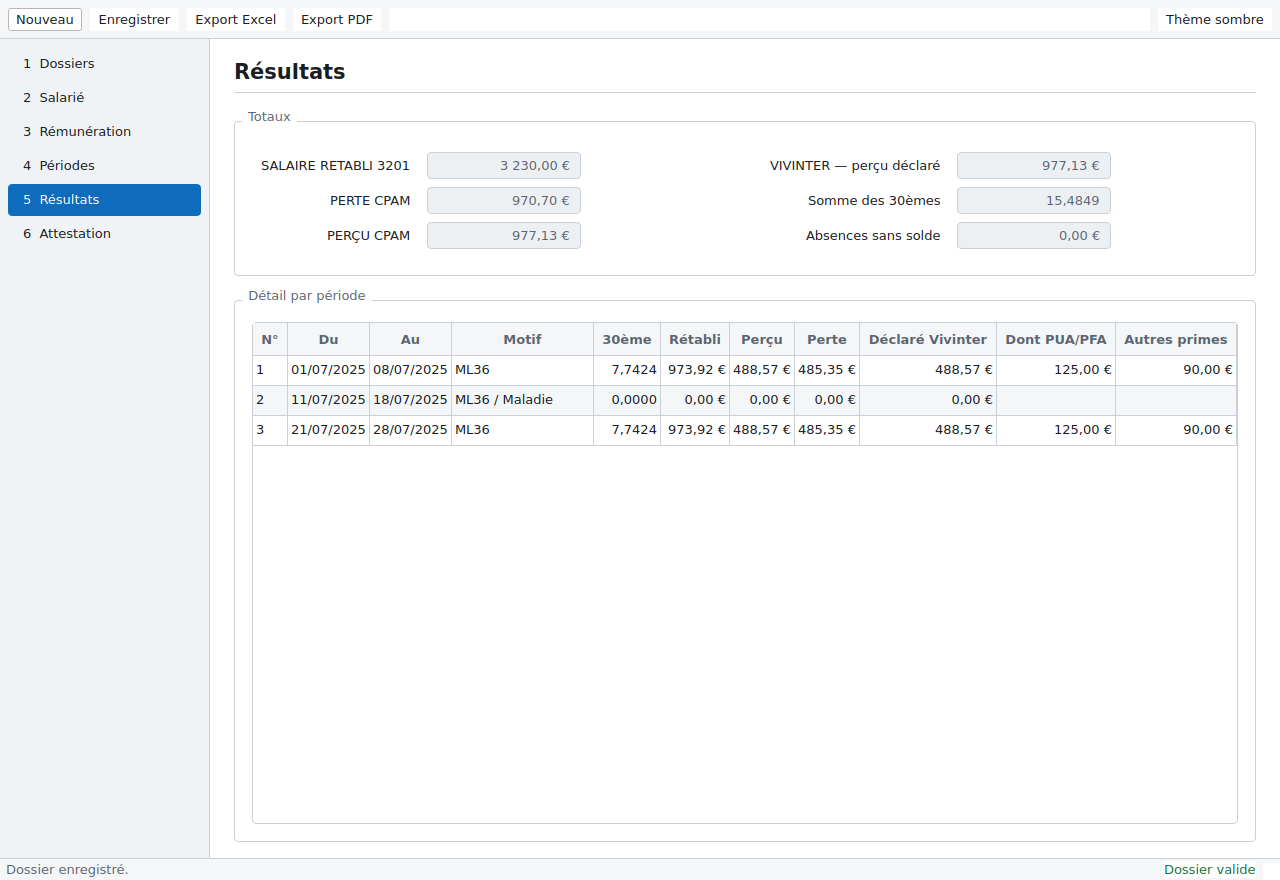
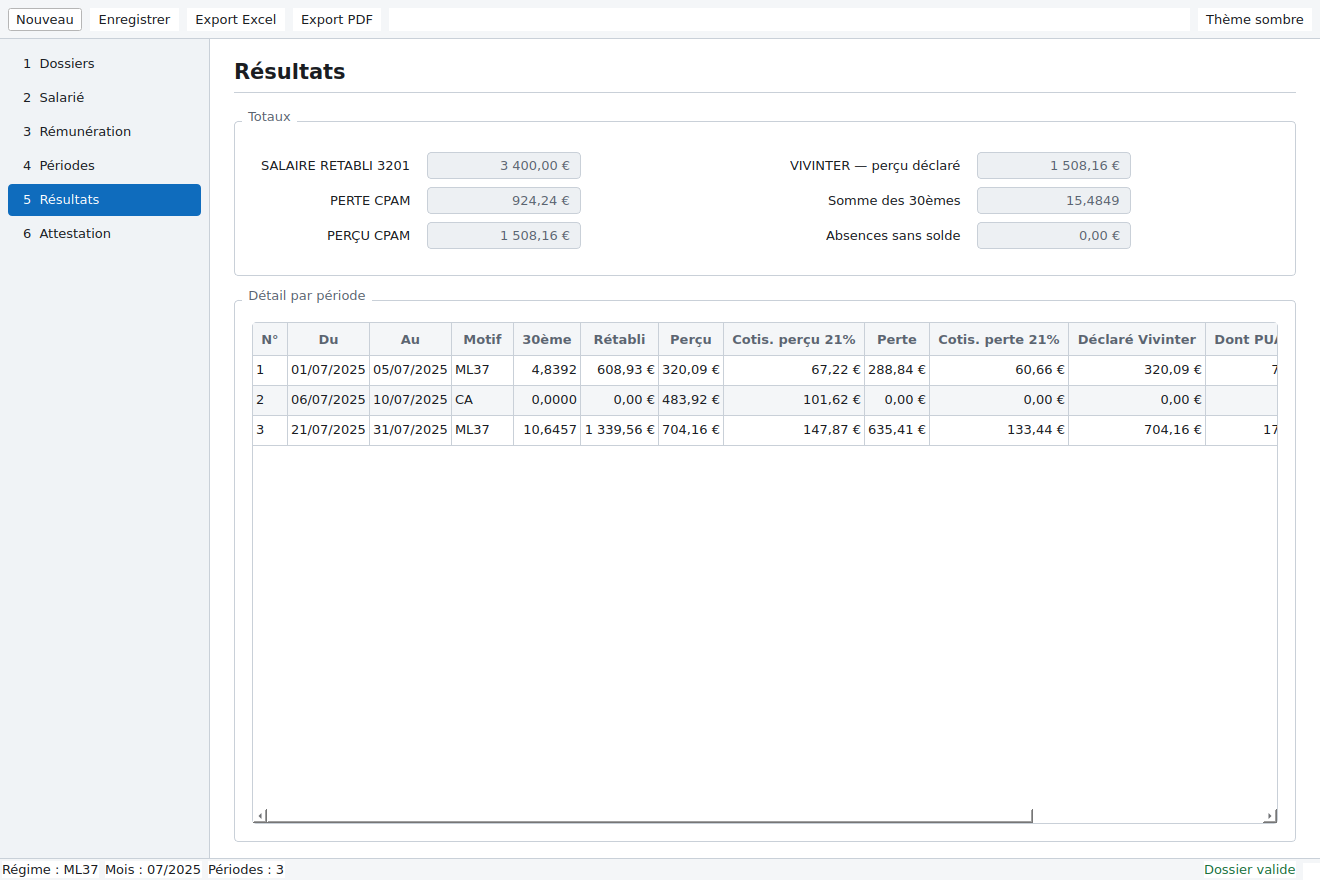
Colonnes de cotisations 21%, mail complet dans l'aperçu, calendrier corrigé
- Étape Résultats : ML37 affiche les cotisations à 21 % (F19) sur le perçu
  (F_{p+3}) et sur la perte (F_{p+4}) ; ML35 affiche les cotisations sur les
  IJ retirées et sur le montant à déclarer. Les données existaient déjà dans
  le moteur, elles sont désormais visibles.
- Aperçu de l'attestation : l'adresse mail, trop longue pour sa case à taille
  fixe, était tronquée. Le texte sans retour à la ligne est maintenant réduit
  jusqu'à tenir, comme le fait déjà le rendu PDF.
- Calendrier : sur un champ vide il s'ouvrait encore par endroits sur janvier
  1900. À l'ouverture, Qt synchronise le calendrier sur la date sélectionnée
  APRÈS l'événement Show ; le repositionnement sur le mois courant est donc
  différé d'un tour de boucle (singleShot) pour ne pas être écrasé.

125 tests verts.

Claude-Session: https://claude.ai/code/session_01J5zAYvKmsFBDy1MuqG9dEJ

diff --git a/tpt_app/ui/pages/resultats.py b/tpt_app/ui/pages/resultats.py
@@ -15,15 +15,20 @@ from PySide6.QtWidgets import (
 from PySide6.QtCore import Qt
 
 from ...core.arrondi import format_date, format_decimal, format_euro
-from ...core.models import REGIME_ML35, Dossier
+from ...core.models import REGIME_ML35, REGIME_ML37, Dossier
 from ..theme import UNITE
 from ..widgets.champs import Formulaire, ValeurCalculee
 from .base import Page
 
 COLONNES_ML36 = ("N°", "Du", "Au", "Motif", "30ème", "Rétabli", "Perçu", "Perte",
                  "Déclaré Vivinter", "Dont PUA/PFA", "Autres primes")
+#: ML37 ajoute les cotisations à 21 % (F19) sur le perçu et sur la perte.
+COLONNES_ML37 = ("N°", "Du", "Au", "Motif", "30ème", "Rétabli", "Perçu",
+                 "Cotis. perçu 21%", "Perte", "Cotis. perte 21%",
+                 "Déclaré Vivinter", "Dont PUA/PFA", "Autres primes")
 COLONNES_ML35 = ("N°", "Du", "Au", "Motif", "Nb jours", "FIXE", "MAJO + PAN",
-                 "IJ à retirer", "À déclarer", "Taxé")
+                 "IJ à retirer", "Cotis. IJ 21%", "À déclarer",
+                 "Cotis. à déclarer 21%")
 
 
 def _table(colonnes) -> QTableWidget:
@@ -86,8 +91,39 @@ class PageResultats(Page):
     def actualiser(self, dossier: Dossier, resultat) -> None:
         if dossier.regime == REGIME_ML35:
             self._afficher_ml35(resultat.ml35)
+        elif dossier.regime == REGIME_ML37:
+            self._afficher_ml37(resultat.ml37)
         else:
             self._afficher_matrice(resultat.matrice_active(dossier.regime))
+
+    def _afficher_ml37(self, matrice) -> None:
+        """Comme ML36, avec en plus les cotisations à 21 % perçu et perte."""
+        self.salaire_retabli.definir_valeur(matrice.salaire_retabli_3201)
+        self.perte_cpam.definir_valeur(matrice.perte_cpam)
+        self.percu_cpam.definir_valeur(matrice.percu_cpam)
+        self.vivinter.definir_valeur(matrice.vivinter_percu)
+        self.somme_trentiemes.definir_valeur(matrice.somme_trentiemes, monetaire=False)
+        self.absences_sans_solde.definir_valeur(matrice.total_absences_sans_solde)
+
+        renseignees = [p for p in matrice.periodes if p.renseignee]
+        self._remplir(COLONNES_ML37, [
+            (
+                str(p.index),
+                format_date(p.date_debut),
+                format_date(p.date_fin),
+                " / ".join(m for m in (p.motif_principal, p.motif_absence) if m),
+                format_decimal(p.trentieme, 4),
+                format_euro(p.retabli_total),
+                format_euro(p.percu_total),
+                format_euro(p.taxation_percu),
+                format_euro(p.perte),
+                format_euro(p.taxation_perte),
+                format_euro(p.montant_declare),
+                format_euro(p.dont_pua_pfa, vide_si_zero=True),
+                format_euro(p.autres_primes, vide_si_zero=True),
+            )
+            for p in renseignees
+        ])
 
     def _afficher_matrice(self, matrice) -> None:
         self.salaire_retabli.definir_valeur(matrice.salaire_retabli_3201)
@@ -136,6 +172,7 @@ class PageResultats(Page):
                 format_euro(p.fixe),
                 format_euro(p.majo_paniers),
                 format_euro(p.ij_a_retirer),
+                format_euro(p.ij_taxees),
                 format_euro(p.a_declarer),
                 format_euro(p.a_declarer_taxe),
             )

diff --git a/tpt_app/ui/widgets/champs.py b/tpt_app/ui/widgets/champs.py
@@ -11,7 +11,7 @@ import datetime as dt
 from decimal import Decimal, InvalidOperation
 from typing import Optional
 
-from PySide6.QtCore import QDate, QEvent, QLocale, Qt, Signal
+from PySide6.QtCore import QDate, QEvent, QLocale, Qt, QTimer, Signal
 from PySide6.QtWidgets import (
     QComboBox,
     QDateEdit,
@@ -213,12 +213,21 @@ class SaisieDate(QDateEdit):
         On se contente de tourner la page du calendrier : aucune date n'est
         sélectionnée tant que l'utilisateur n'a pas cliqué, refermer la fenêtre
         laisse donc bien le champ vide.
+
+        Le repositionnement est **différé** (``singleShot(0)``) : à l'ouverture,
+        Qt synchronise le calendrier sur la date sélectionnée — la date minimale
+        (janvier 1900) pour un champ vide — *après* l'événement ``Show``. Corriger
+        la page immédiatement serait donc écrasé ; on le fait au tour de boucle
+        suivant, une fois cette synchronisation passée.
         """
         if objet is self.calendarWidget() and evenement.type() == QEvent.Show \
                 and self._vide:
-            aujourdhui = QDate.currentDate()
-            self.calendarWidget().setCurrentPage(aujourdhui.year(), aujourdhui.month())
+            QTimer.singleShot(0, self._afficher_mois_courant)
         return super().eventFilter(objet, evenement)
+
+    def _afficher_mois_courant(self) -> None:
+        aujourdhui = QDate.currentDate()
+        self.calendarWidget().setCurrentPage(aujourdhui.year(), aujourdhui.month())
 
     def keyPressEvent(self, evenement):           # noqa: N802 (API Qt)
         """Amorce un champ vide à la date du jour dès la première frappe."""

diff --git a/tpt_app/ui/widgets/apercu_attestation.py b/tpt_app/ui/widgets/apercu_attestation.py
@@ -87,10 +87,23 @@ class ApercuAttestation(QWidget):
     def _texte(self, peintre, page, x, y, largeur, hauteur, texte, taille,
                gras=False, alignement=Qt.AlignLeft | Qt.AlignVCenter,
                couleur=NOIR, retour=False):
-        peintre.setFont(self._police(page, taille, gras))
-        peintre.setPen(QPen(couleur))
+        police = self._police(page, taille, gras)
         cadre = QRectF(page.x() + page.width() * x, page.y() + page.height() * y,
                        page.width() * largeur, page.height() * hauteur)
+
+        # Sans retour à la ligne, un texte plus large que sa case — l'adresse mail
+        # dans son cadre étroit, typiquement — est réduit jusqu'à tenir, plutôt
+        # que tronqué. Le PDF fait de même.
+        if texte and not retour:
+            marge = page.width() * 0.006
+            largeur_utile = max(cadre.width() - 2 * marge, 1)
+            from PySide6.QtGui import QFontMetricsF
+            largeur_texte = QFontMetricsF(police).horizontalAdvance(texte)
+            if largeur_texte > largeur_utile:
+                police.setPointSizeF(police.pointSizeF() * largeur_utile / largeur_texte)
+
+        peintre.setFont(police)
+        peintre.setPen(QPen(couleur))
         drapeaux = alignement | (Qt.TextWordWrap if retour else 0)
         peintre.drawText(cadre, int(drapeaux), texte)
 

diff --git a/tpt_app/tests/test_interface.py b/tpt_app/tests/test_interface.py
@@ -167,7 +167,7 @@ def test_date_at_masquee_en_ml36(fenetre):
     assert not fenetre.page_salarie.champ_date_at.isHidden()
 
 
-def test_calendrier_s_ouvre_sur_le_mois_en_cours(fenetre):
+def test_calendrier_s_ouvre_sur_le_mois_en_cours(fenetre, application):
     """Un champ vide ne doit pas ouvrir le calendrier sur janvier 1900."""
     from PySide6.QtGui import QShowEvent
     from PySide6.QtCore import QDate
@@ -177,7 +177,11 @@ def test_calendrier_s_ouvre_sur_le_mois_en_cours(fenetre):
     assert champ.valeur() is None
 
     calendrier = champ.calendarWidget()
+    # À l'ouverture, Qt place la page sur la date sélectionnée (1900) ; le
+    # correctif la remet sur le mois courant au tour de boucle suivant.
+    calendrier.setCurrentPage(1900, 1)
     champ.eventFilter(calendrier, QShowEvent())
+    application.processEvents()
 
     aujourdhui = QDate.currentDate()
     assert calendrier.yearShown() == aujourdhui.year()
